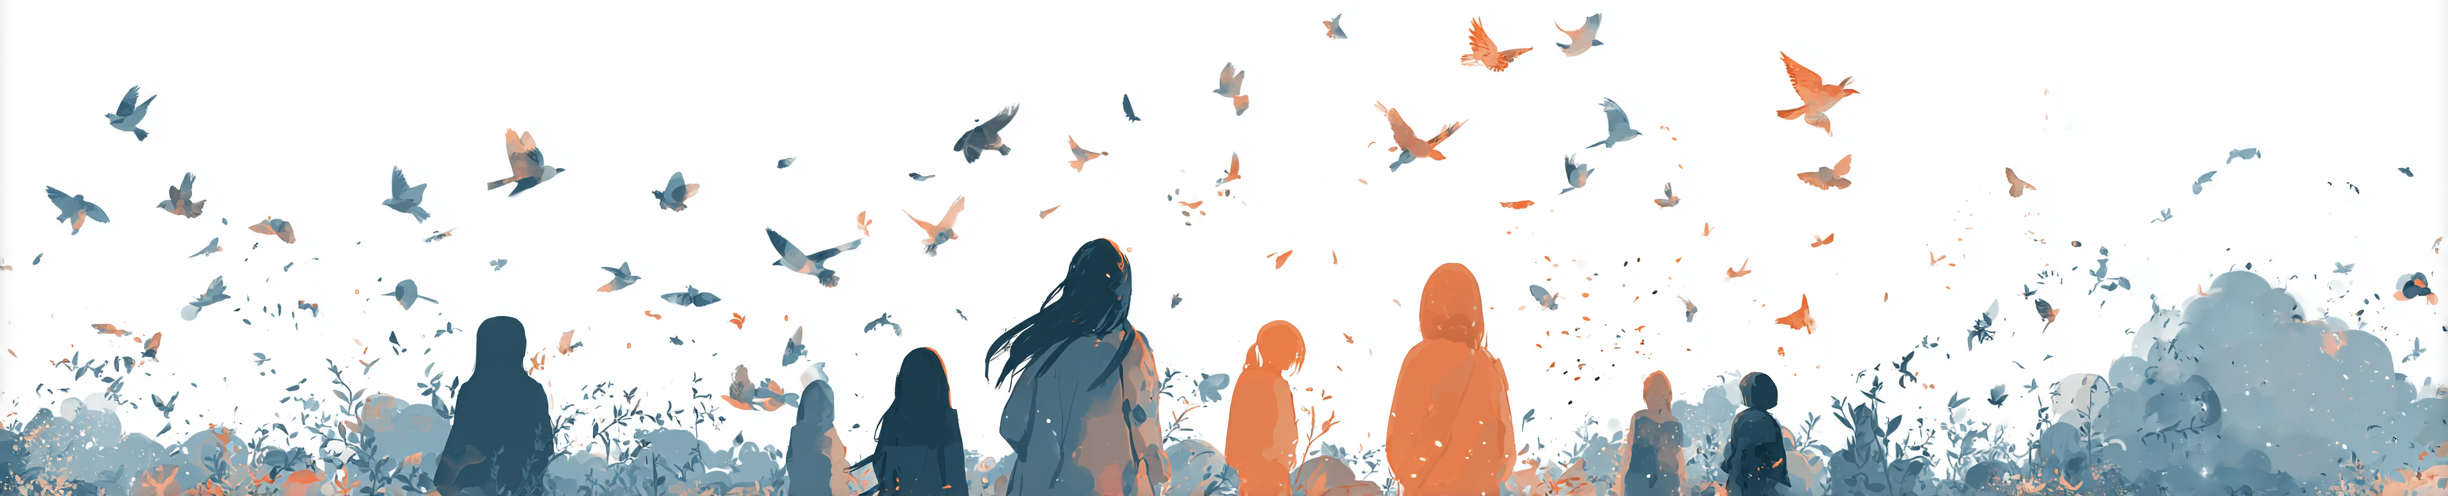
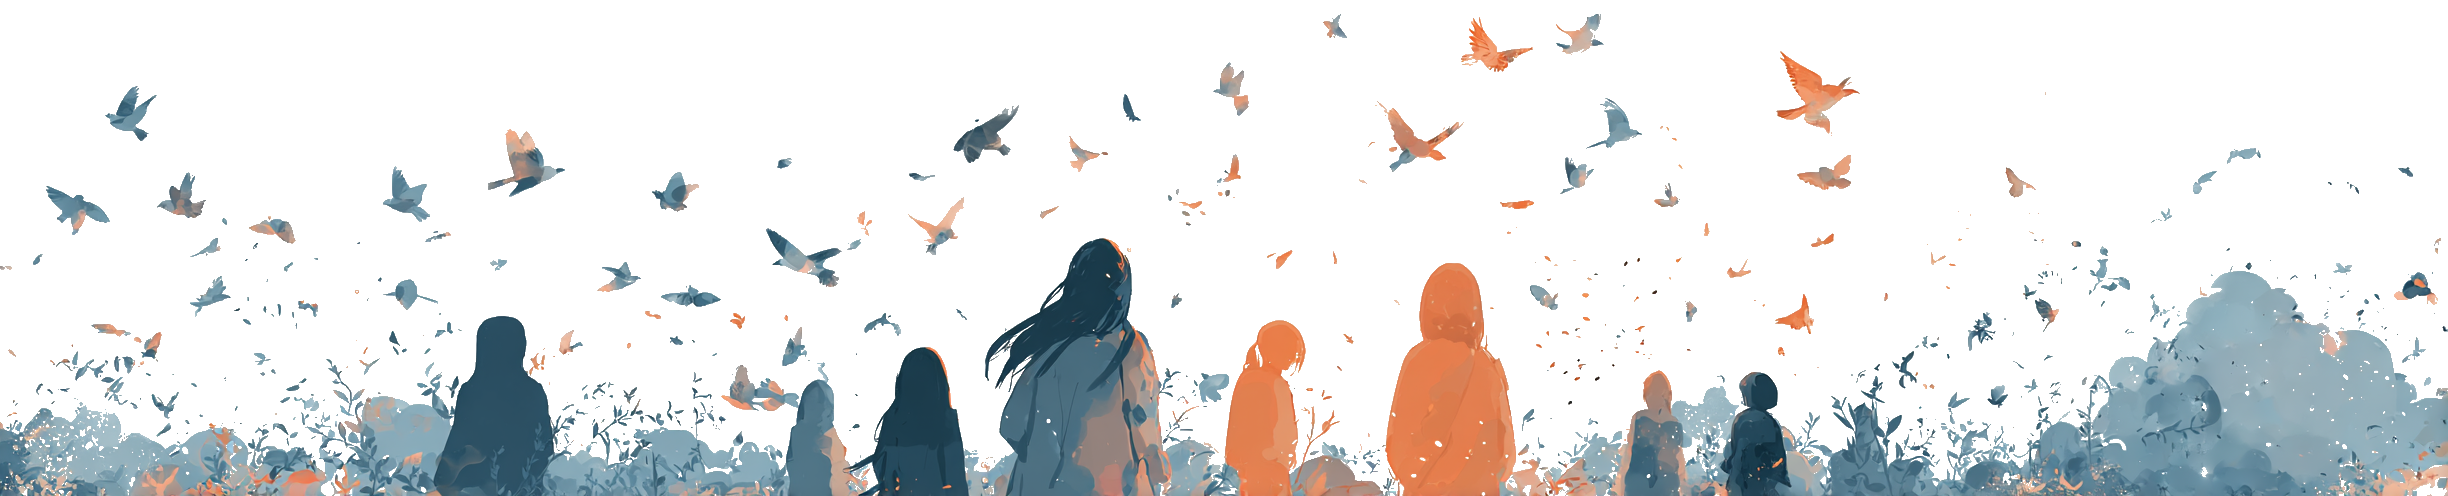
proyecto VMA

diff --git a/assets/images/ProyectoVMA.html b/assets/images/ProyectoVMA.html
@@ -171,6 +171,23 @@
         .slider.round { border-radius: 34px; }
         .slider.round:before { border-radius: 50%; }
 
+        /* Velo opcional para mejorar contraste del texto sobre el banner */
+        .hero-veil{
+        position: absolute;
+        inset: 0;
+        pointer-events: none;
+
+        opacity: .9;
+        }
+        html.dark .hero-veil{ 
+
+        opacity: 1;
+        }
+
+        /* (Opcional) evita scroll horizontal si usas full-bleed con w-screen */
+        body { overflow-x: hidden; }
+
+
         /* Custom Brand Text Color */
         .text-brand { color: #52525b; }
         html.dark .text-brand { color: var(--pri-ink); } /* Use primary ink in dark mode for readability */
@@ -224,22 +241,32 @@
                 </ul>
             </div>
         </div>
-    </header> 
+    </header>
 
     <main class="flex-grow">
         <div id="slides-container" class="h-full container mx-auto px-6">
-            <!-- Slide 1: Hero -->
-            <div class="slide slide-centered">
-                <section class="text-center z-10">
-                    <h1 class="text-4xl md:text-6xl font-bold mb-4 gradient-text" data-key="heroTitle">Construyendo el Futuro de Nuestras Niñas</h1>
-                    <p class="text-lg md:text-xl text-[var(--pri-ink-2)] max-w-3xl mx-auto" data-key="heroSubtitle">
-                        Una alianza para transformar datos en oportunidades de crecimiento para cada alumna. Durante seis meses, sentaremos las bases del primer Departamento de Innovación, un motor que nacerá desde el corazón del colegio para asegurar su liderazgo y la evolución constante de su proyecto educativo.
-                    </p>
-                </section>
-                <div class="absolute bottom-10 left-0 right-0 flex justify-center opacity-60 dark:opacity-40">
-                    <img src="https://daniavm.github.io/assets/images/proyectoVMA_banner.png" alt="Ilustración de aves volando sobre siluetas de niñas" class="h-24 md:h-32 w-auto object-contain">
-                </div>
+            <!-- Slide 1: Hero (texto centrado; fondo 5:1 anclado abajo, full-bleed) -->
+            <div
+            class="slide slide-centered relative
+                    w-screen left-1/2 -translate-x-1/2
+                    min-h-[70vh]
+                    bg-no-repeat bg-bottom bg-[length:100%_auto]"
+            style="background-image:url('./proyectoVMA_banner.png');"
+            >
+            <!-- Velo para legibilidad (opcional) -->
+            <div class="hero-veil"></div>
+
+            <!-- Contenido centrado -->
+            <section class="text-center relative z-10 px-6">
+                <h1 class="text-4xl md:text-6xl font-bold mb-4 gradient-text" data-key="heroTitle">
+                Construyendo el Futuro de Nuestras Niñas
+                </h1>
+                <p class="text-lg md:text-xl text-[var(--pri-ink-2)] max-w-3xl mx-auto" data-key="heroSubtitle">
+                Una alianza para transformar datos en oportunidades de crecimiento para cada alumna. Durante seis meses, sentaremos las bases del primer Departamento de Innovación, un motor que nacerá desde el corazón del colegio para asegurar su liderazgo y la evolución constante de su proyecto educativo.
+                </p>
+            </section>
             </div>
+
 
             <!-- Slide 2: Journey & Objectives -->
             <div class="slide py-12 md:py-20">
